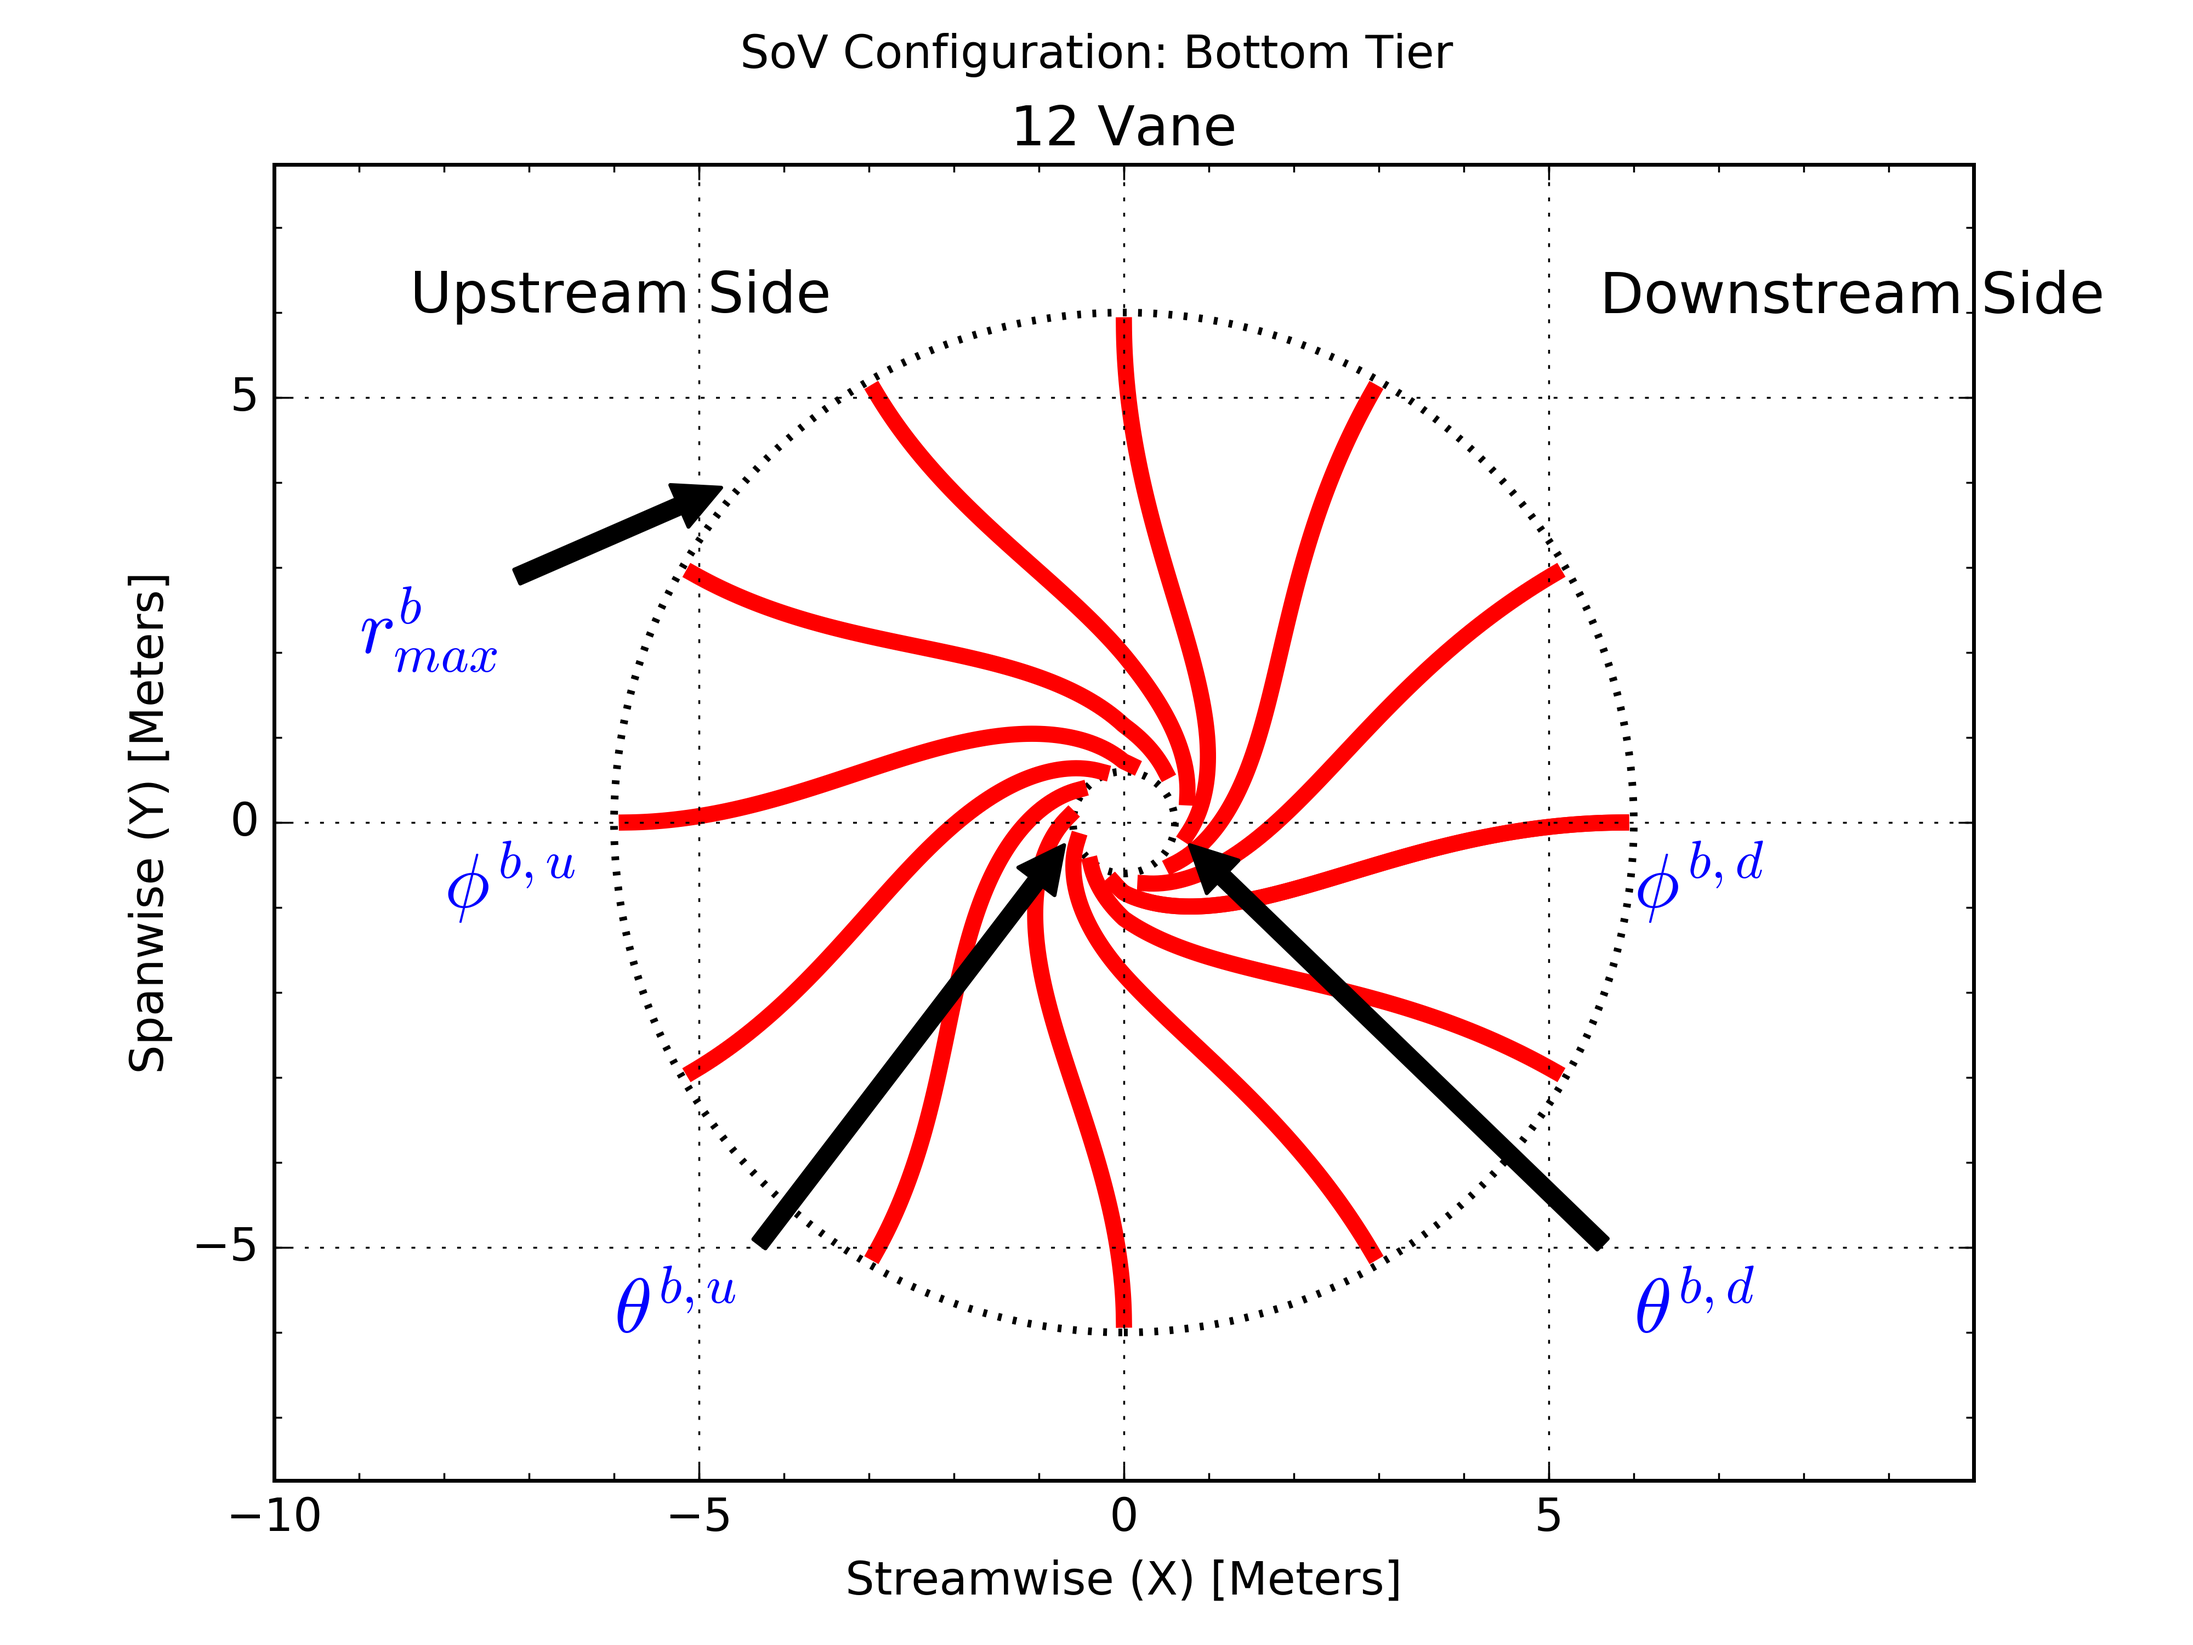
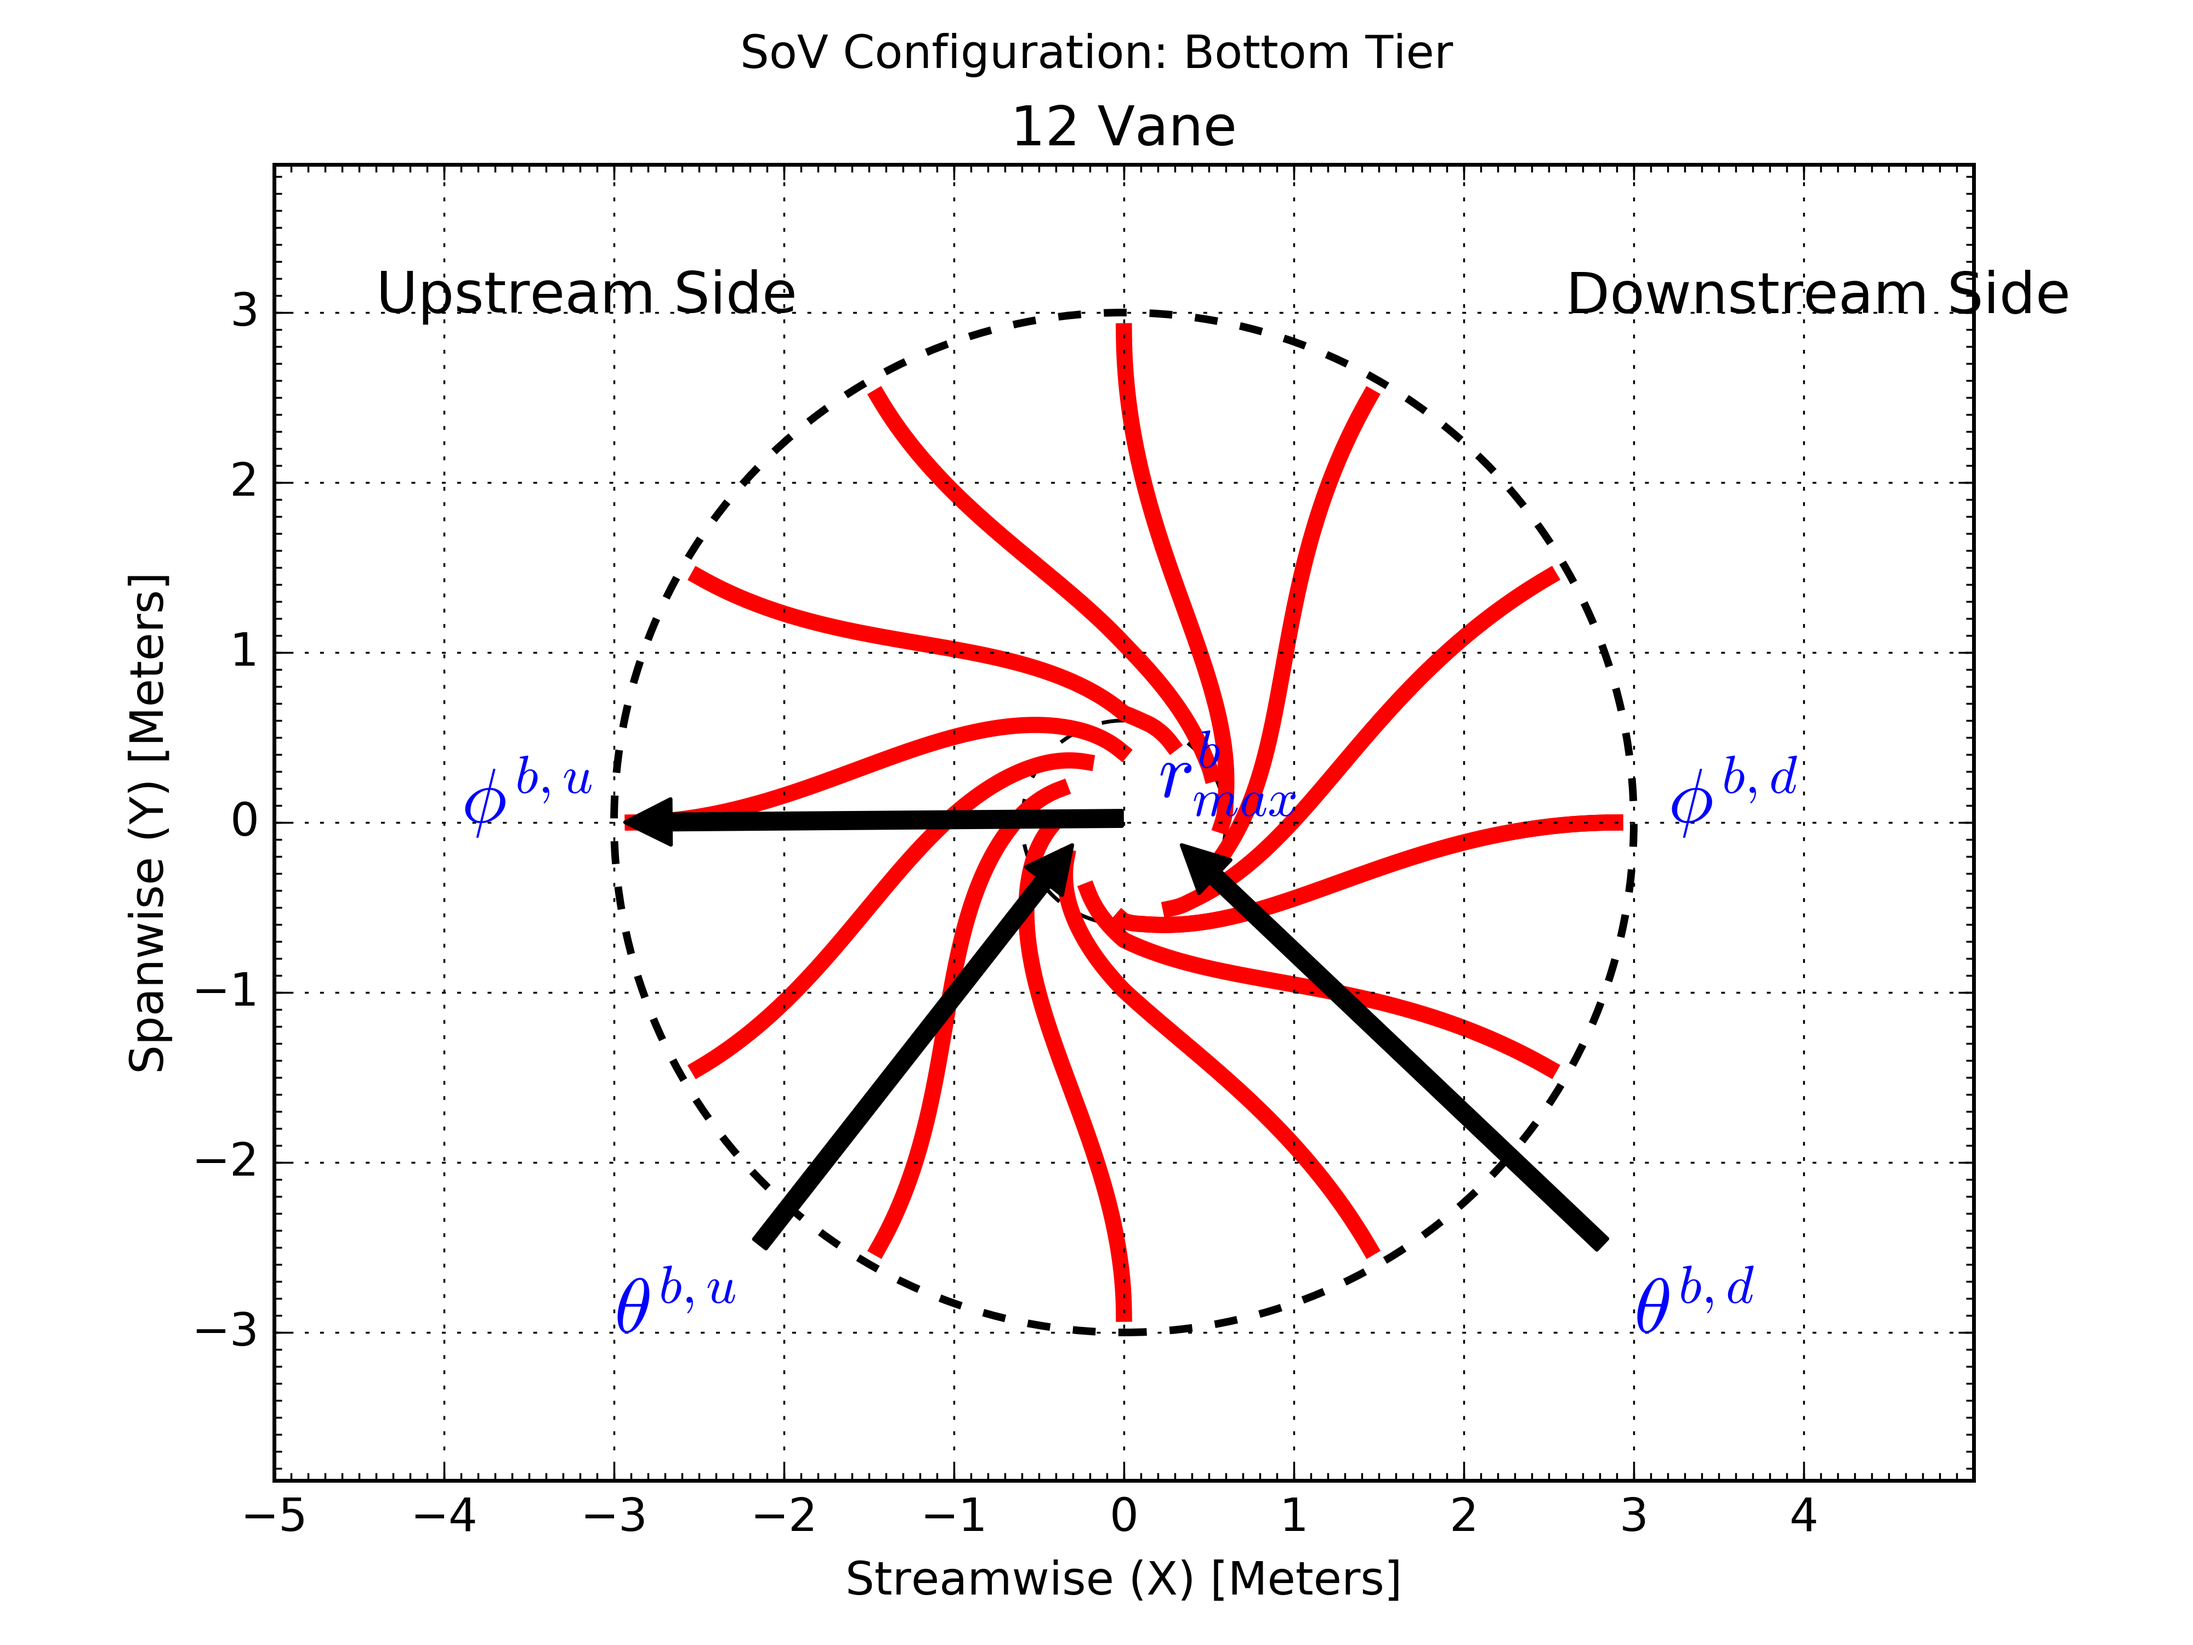
updating bottom tier

diff --git a/disputatio/routines/vanes/bottom.py b/disputatio/routines/vanes/bottom.py
@@ -13,7 +13,7 @@ import matplotlib.pyplot as plt
 from scipy import integrate
 from scipy.integrate import ode
 
-radprime=6.0
+radprime=3.0
 radmin=0.6
 
 def vf(t,x):
@@ -52,13 +52,13 @@ def arr():
     ic    = np.stack((rad*np.cos(theta),rad*np.sin(theta)),axis=-1)
 
     end = 0.0
-    t0=0; dt=0.05;
+    t0=0; dt=0.01;
     r = ode(vf).set_integrator('vode', method='bdf',max_step=dt)
     for k in range(len(ic)):
         #
         # tEnd=np.sqrt(ic[k][0]**2 + ic[k][1]**2)-end
         #
-        tEnd=radprime+0.2
+        tEnd=radprime+0.0
         Y=[];T=[];S=[];
         r.set_initial_value(ic[k], t0)
         while r.successful() and r.t +dt < tEnd:
@@ -79,7 +79,7 @@ def main():
     fig = plt.figure()
     ax = fig.add_subplot(1,1,1)
 
-    dom=10
+    dom=5
 
     xmin = -dom
     xmax = dom
@@ -108,10 +108,10 @@ def main():
     plt.suptitle("SoV Configuration: Bottom Tier")
     plt.title("12 Vane")
 
-    major_ticksx = np.arange(xmin, xmax, 5)
-    minor_ticksx = np.arange(xmin, xmax, 1)                                         
-    major_ticksy = np.arange(ymin, ymax, 5)
-    minor_ticksy = np.arange(ymin, ymax, 1)                                         
+    major_ticksx = np.arange(xmin, xmax, 1)
+    minor_ticksx = np.arange(xmin, xmax, 0.1)                                         
+    major_ticksy = np.arange(ymin, ymax, 1)
+    minor_ticksy = np.arange(ymin, ymax, .1)                                         
     ax.set_xticks(major_ticksx)
     ax.set_xticks(minor_ticksx, minor=True) 
     ax.set_yticks(major_ticksy)
@@ -125,27 +125,27 @@ def main():
 
     # add circle(s)
     R = radprime
-    circleout=plt.Circle((0,0),R,color='black',linestyle='dotted',fill=False,linewidth=2)
+    circleout=plt.Circle((0,0),R,color='black',linestyle='dashed',fill=False,linewidth=2)
 
     Rin = radmin
-    circlein=plt.Circle((0,0),Rin,color='black',linestyle='dotted',fill=False,linewidth=2)
+    circlein=plt.Circle((0,0),Rin,color='black',linestyle='dashed',fill=False,linewidth=1)
 
     # adding text
-    ax.text(-8.4, 6, r'Upstream Side', fontsize=15)
-    ax.text(5.6, 6, r'Downstream Side', fontsize=15)
+    ax.text(-4.4, radprime, r'Upstream Side', fontsize=15)
+    ax.text(2.6, radprime, r'Downstream Side', fontsize=15)
 
     # angles
-    ax.text(-8, -1, r'$\phi^{b,u}$', fontsize=20,color='blue')
-    ax.text(6, -1, r'$\phi^{b,d}$', fontsize=20,color='blue')
+    ax.text(-3.9, 0, r'$\phi^{b,u}$', fontsize=20,color='blue')
+    ax.text(3.2, 0, r'$\phi^{b,d}$', fontsize=20,color='blue')
 
     # annotate
-    ax.annotate(r'$\theta^{b,u}$', xy=(-0.5, 0), xytext=(-6, -6),
+    ax.annotate(r'$\theta^{b,u}$', xy=(-0.2, 0), xytext=(-radprime, -radprime),
                 arrowprops=dict(facecolor='black', shrink=0.05),color='blue',fontsize=20)
-    ax.annotate(r'$\theta^{b,d}$', xy=(0.5, 0), xytext=(6, -6),
+    ax.annotate(r'$\theta^{b,d}$', xy=(0.2, 0), xytext=(radprime, -radprime),
                 arrowprops=dict(facecolor='black', shrink=0.05),color='blue',fontsize=20)
 
     # outer and inner radius
-    ax.annotate(r'$r^{b}_{max}$', xy=(-4.6, 4), xytext=(-9, 2),
+    ax.annotate(r'$r^{b}_{max}$', xy=(-3.1, 0), xytext=(0.2, .15),
                 arrowprops=dict(facecolor='black', shrink=0.05),color='blue',fontsize=20)
     
 

diff --git a/disputatio/routines/vanes/combo.py b/disputatio/routines/vanes/combo.py
@@ -111,7 +111,8 @@ def arr(m):
     # Solution curves
     #
     h = hprime
-    ic=[[h,-4],[h,-1],[h,1],[h,-8]]
+    #ic=[[h,-4],[h,-1],[h,1],[h,-8]]
+    ic=[[h,-3.4],[h,-0.1],[h,-8]]
     end = [2,2,2,2]
     t0=0; dt=0.1;
     r = ode(vf).set_integrator('vode', method='bdf',max_step=dt)
@@ -291,7 +292,7 @@ def main():
     # ----------------------------------------
     
     plt.suptitle("SoV Configuration: Top Tier")
-    plt.title("Eight Vane")
+    plt.title("Seven Vane")
 
     xmin = -15
     xmax = 6
